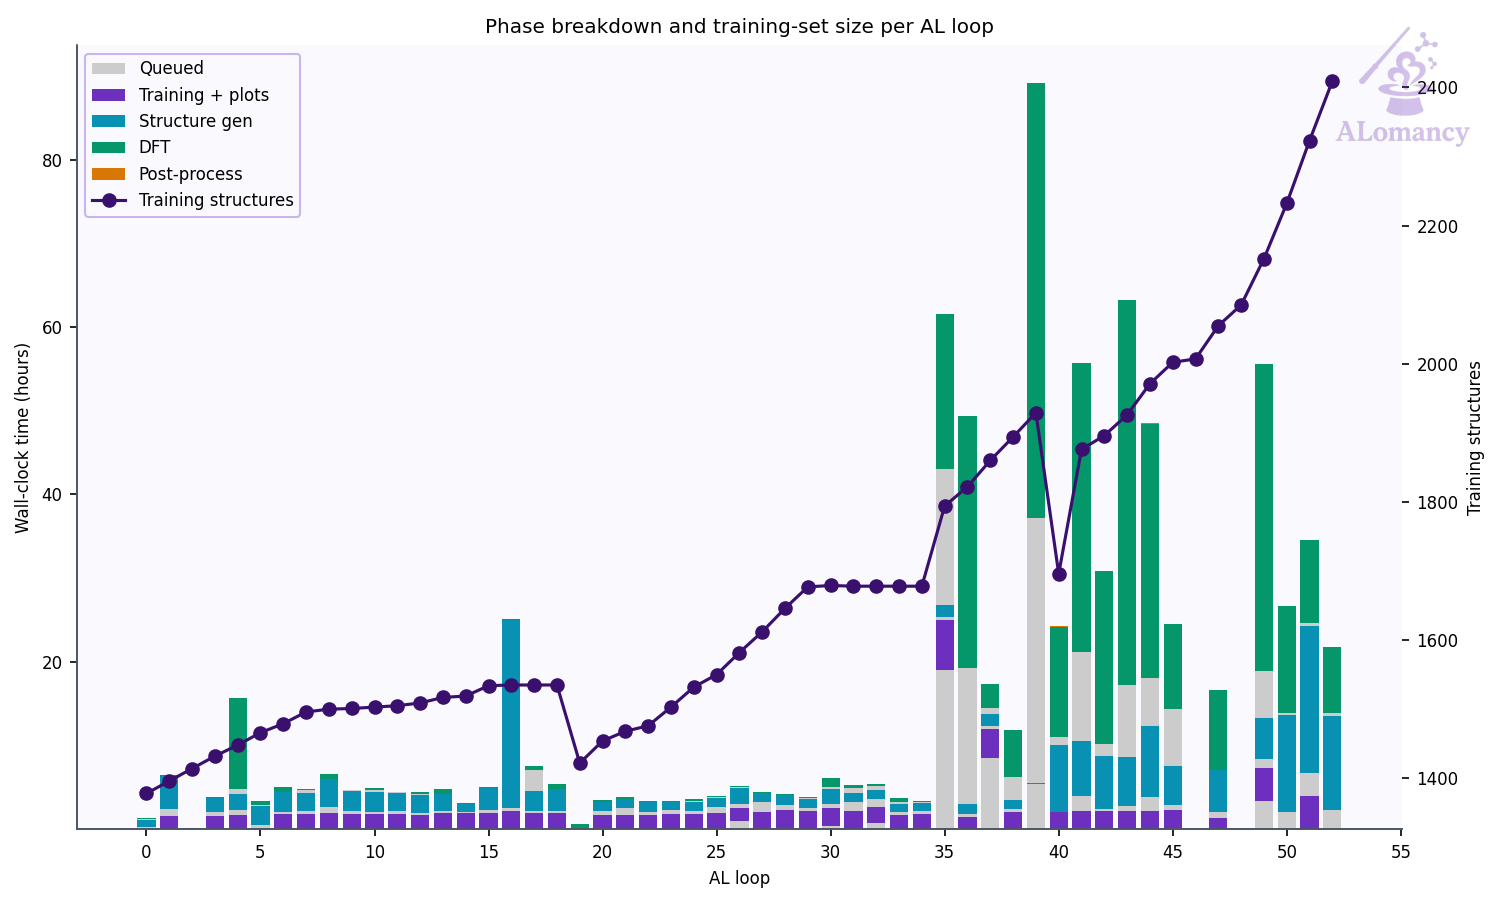
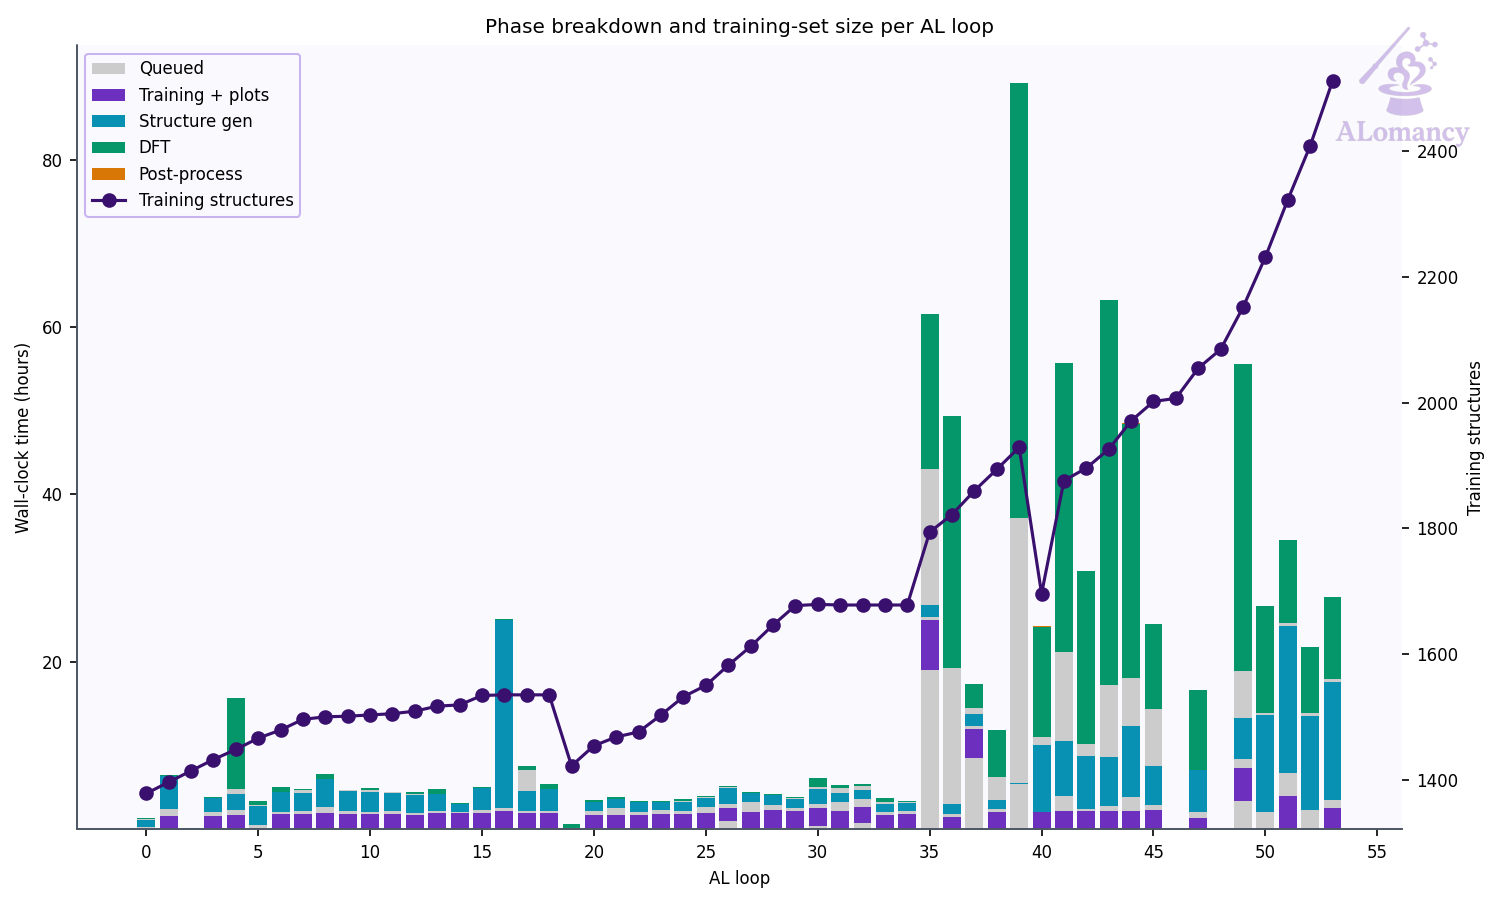
update yun_an

diff --git a/alomancy/yun_an/report/report.md b/alomancy/yun_an/report/report.md
@@ -1,27 +1,28 @@
-# ALomancy report: al_loop_52
+# ALomancy report: al_loop_53
 
-Workflow `committee_uncertainty` · trainer `mace` · generator `md` · evaluator `qe` · generated 2026-11-10T15:19:36
+Workflow `committee_uncertainty` · trainer `mace` · generator `md` · evaluator `qe` · generated 2026-11-11T19:04:03
 
-**Status:** ✖ 2 errors · ⚠ 1 warning · 18 warning(s) logged
+**Status:** ✖ 2 errors · ⚠ 2 warnings · 41 warning(s) logged
 
 ## Headline
 
-| | loop 51 | loop 52 | change |
+| | loop 52 | loop 53 | change |
 |---|---:|---:|---:|
-| Best model test force MAE (eV/Å) | 0.341 | 0.284 | -17% |
-| Best model test energy MAE (meV/atom) | 126 | 126 | -0% |
-| Training structures | 2.41e+03 | 2.51e+03 | +4% |
-| Test structures | 152 | 162 | +7% |
-| New structures this loop | 92 | 62 | -33% |
-| Warnings / errors logged | 17 | 18 | +6% |
+| Best model test force MAE (eV/Å) | 0.284 | 0.299 | +5% |
+| Best model test energy MAE (meV/atom) | 126 | 145 | +15% |
+| Training structures | 2.51e+03 | 2.59e+03 | +3% |
+| Test structures | 162 | 169 | +4% |
+| New structures this loop | 62 | 60 | -3% |
+| Warnings / errors logged | 18 | 41 | +128% |
 
 Best model: fit_2 of 5 (chosen on the `valid` split).
 
 ## Issues & suggestions
 
-- ✖ **remote_jobs_failed**: 14/128 remote jobs (11%) failed (6) or died (8). Check the job logs (results/alomancy.log has each failure's traceback); jobs killed by the scheduler usually need a longer max_time for that phase, or a partition with more memory.
-- ✖ **dft_partial_failure**: 6/100 structures sent to DFT (6%) came back without a result. Check the DFT output in results/<loop>/high_accuracy_evaluation; raise high_accuracy_evaluation.max_time / max_go_time if jobs timed out.
-- ⚠ **short_bond_excluded**: 3817/5734 structures (67%) were dropped for a bond shorter than 0.5 Å. The model is driving MD into collisions: lower md_kwargs.temperature or md_kwargs.timestep_fs, or add more short-range initialization data (dimers/trimers).
+- ✖ **remote_jobs_failed**: 37/141 remote jobs (26%) failed (30) or died (7). Check the job logs (results/alomancy.log has each failure's traceback); jobs killed by the scheduler usually need a longer max_time for that phase, or a partition with more memory.
+- ✖ **dft_partial_failure**: 33/100 structures sent to DFT (33%) came back without a result. Check the DFT output in results/<loop>/high_accuracy_evaluation; raise high_accuracy_evaluation.max_time / max_go_time if jobs timed out.
+- ⚠ **go_not_converged**: 11/67 geometry optimisations (16%) stopped at the step budget (200 steps) before reaching the force ceiling. Raise high_accuracy_evaluation.max_num_of_relax_steps, or raise high_accuracy_evaluation.force_ceiling (now 0.05 eV/Å) so they stop earlier. Non-converged structures are still kept as training data.
+- ⚠ **short_bond_excluded**: 4839/8214 structures (59%) were dropped for a bond shorter than 0.5 Å. The model is driving MD into collisions: lower md_kwargs.temperature or md_kwargs.timestep_fs, or add more short-range initialization data (dimers/trimers).
 
 ## Trends
 
@@ -44,6 +45,7 @@ Best model: fit_2 of 5 (chosen on the `valid` split).
 | 50 | 0.298 | 2323 | 86 | 86/100 | 85% | 0 | 28 |
 | 51 | 0.341 | 2409 | 92 | 92/100 | 85% | 0 | 17 |
 | 52 | 0.284 | 2512 | 62 | 94/100 | 100% | 0 | 18 |
+| 53 | 0.299 | 2586 | 60 | 67/100 | 84% | 0 | 41 |
 
 ![Best-model MAE per loop](plots/training_al_loop_mae_plot.png)
 
@@ -53,7 +55,7 @@ Best model: fit_2 of 5 (chosen on the `valid` split).
 
 ![Best model parity](plots/best_model_parity.png)
 
-Median relative error: train energy 2.6%, force 20.2%; test energy 1.6%, force 140.8%.
+Median relative error: train energy 2.8%, force 26.9%; test energy 2.6%, force 148.6%.
 Energies with |formation energy| < 0.05 eV/atom and atoms with |F| < 0.1 eV/Å are left out; force error is |ΔF|/|F| per atom.
 
 ![Best model percentage error](plots/best_model_percent_error.png)
@@ -63,17 +65,17 @@ Energies with |formation energy| < 0.05 eV/atom and atoms with |F| < 0.1 eV/Å a
 | config_type | Train | Test | Excluded: redundant | Excluded: quality filter | total |
 |---|---:|---:|---:|---:|---:|
 | IsolatedAtom | 5 | 0 | 0 | 0 | 5 |
-| high_sd | 1111 | 146 | 28 | 823 | 2108 |
+| high_sd | 1185 | 153 | 28 | 876 | 2242 |
 | init_MP | 69 | 4 | 0 | 0 | 73 |
 | init_amorphous | 67 | 12 | 8 | 0 | 87 |
 | init_dimer | 299 | 0 | 0 | 0 | 299 |
 | init_stretch_compress | 390 | 0 | 0 | 398 | 788 |
 | init_trimer | 571 | 0 | 0 | 0 | 571 |
-| **all** | **2512** | **162** | **36** | **1221** | **3931** |
+| **all** | **2586** | **169** | **36** | **1274** | **4065** |
 
-- Redundancy removal: 36 structure(s) flagged in total, 0 of this loop's 62 new.
-- DFT geometry-optimisation starting frames: 126 stored this loop, 51 used (the rest excluded by the train/test filters or redundancy removal).
-- Quality filters: high_force: 1219, formation_energy: 362.
+- Redundancy removal: 36 structure(s) flagged in total, 0 of this loop's 60 new.
+- DFT geometry-optimisation starting frames: 74 stored this loop, 21 used (the rest excluded by the train/test filters or redundancy removal).
+- Quality filters: high_force: 1272, formation_energy: 373.
 
 ![Training set composition](plots/training_set_composition.png)
 
@@ -81,17 +83,17 @@ Energies with |formation energy| < 0.05 eV/atom and atoms with |F| < 0.1 eV/Å a
 
 Redundancy removal flags near-duplicate training structures, so the model isn't trained on many copies of the same geometry. Each structure is described by `char_vec_128`: all of its interatomic distances, sorted and resampled to 128 values (`global_descriptor/atomic_distance_descriptor.make_char_vec`). Two structures count as duplicates when the Euclidean distance between their descriptors is below a tolerance: in database order, each structure still in the training set is kept unless it is within the tolerance of one already kept. The plot sweeps that tolerance and counts how many structures are kept at each value. **We are looking for plateaus** (shaded): ranges where the count doesn't change, so the result doesn't depend on the exact tolerance. The orange line (right axis) is the number of structures removed between consecutive tolerance steps, the gradient of the count: zero on a plateau. The start of the lowest plateau at least `general.redundancy_kwargs.min_plateau_width` of the swept range wide is used (dashed line). Nothing is flagged when no plateau qualifies, or when it would flag more than `max_flagged_fraction` of the structures; `general.redundancy_kwargs.tolerance` sets the tolerance directly.
 
-- This loop: 1,283 structures probed, tolerance 0.0398, 36 flagged as duplicates (8 plateau(s) found).
+- This loop: 1,357 structures probed, tolerance 0.0398, 36 flagged as duplicates (8 plateau(s) found).
 
 ![Redundancy tolerance probe](plots/redundancy_tolerance_probe.png)
 
 ## DFT
 
-- Structures: 94 returned of 100 submitted (94 relaxed, 0 single point).
-- Geometry optimisation: 94/94 reached the force ceiling (0.05 eV/Å); steps mean 104.4, median 97, max 200 of 200 allowed.
-- Average DFT time per relaxation: 231.9 min (median 230.3, max 475.3; 94 structures).
-- Largest per-atom force after DFT: median 0.05, max 0.05 eV/Å.
-- DFT phase wall-clock: 8.2 h (mean queue time 24 min).
+- Structures: 67 returned of 100 submitted (67 relaxed, 0 single point).
+- Geometry optimisation: 56/67 reached the force ceiling (0.05 eV/Å); steps mean 144.0, median 142, max 200 of 200 allowed.
+- Average DFT time per relaxation: 339.1 min (median 324.8, max 581.8; 67 structures).
+- Largest per-atom force after DFT: median 0.05, max 0.70 eV/Å.
+- DFT phase wall-clock: 10.2 h (mean queue time 22 min).
 
 **Structures evaluated with DFT this loop (final geometries)**
 
@@ -99,14 +101,14 @@ Redundancy removal flags near-duplicate training structures, so the model isn't 
 
 ## MLIP training: mace
 
-- Best fit (fit_2) trained for 299 epochs, stage two from epoch 240; weights kept from epoch 245.
+- Best fit (fit_2) trained for 299 epochs, stage two from epoch 240; weights kept from epoch 289.
 
 ![Best model training curve](plots/best_model_training_curve.png)
 
 ## Structure generation: MD
 
 - Runs: 30 (30 completed, 1 seed(s) replaced)
-- Frames: 4781 recorded, 1681 physical (no bond < 0.5 Å, volume ≤ 3 x the seed's; 17 frame(s) cut after a run expanded past it, seed frames left out), 1000 picked as candidates, spread over each run
+- Frames: 7729 recorded, 3060 physical (no bond < 0.5 Å, volume ≤ 3 x the seed's; 485 frame(s) cut after a run expanded past it, seed frames left out), 1000 picked as candidates, spread over each run
 - Ensemble npt, T = 300 K, timestep 0.1 fs
 
 ![MD frames per run](plots/md_frames_per_run.png)
@@ -121,7 +123,7 @@ Redundancy removal flags near-duplicate training structures, so the model isn't 
 
 ## Selection: committee uncertainty
 
-- 236 candidates scored; 100 selected (42 %; max force std dev ≥ 0.239 eV/Å).
+- 315 candidates scored; 100 selected (32 %; max force std dev ≥ 0.289 eV/Å).
 
 ![Committee force std dev](plots/committee_force_std_dev.png)
 
@@ -130,8 +132,8 @@ Redundancy removal flags near-duplicate training structures, so the model isn't 
 | event | meaning | count |
 |---|---|---:|
 | `dft_summary` | DFT batch summary | 1 |
-| `job_died` | remote job died (killed / lost) | 8 |
-| `job_failed` | remote job failed | 6 |
+| `job_died` | remote job died (killed / lost) | 7 |
+| `job_failed` | remote job failed | 30 |
 | `jobs_started` | remote jobs started | 5 |
 | `md_summary` | MD summary | 1 |
 | `md_volume_expanded` | MD runs cut after expanding past max_volume_ratio | 1 |
